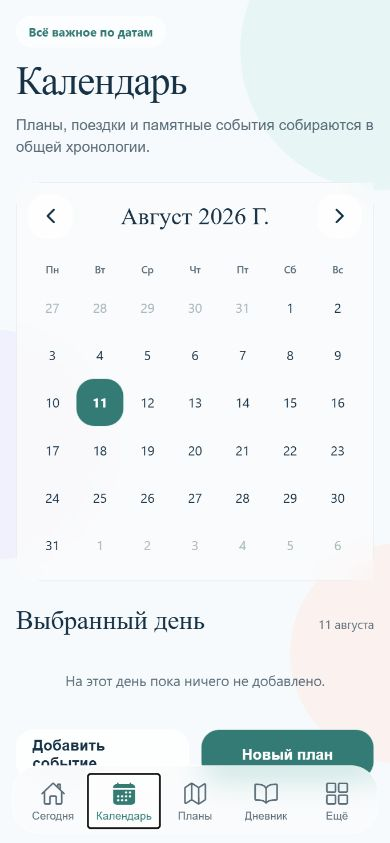
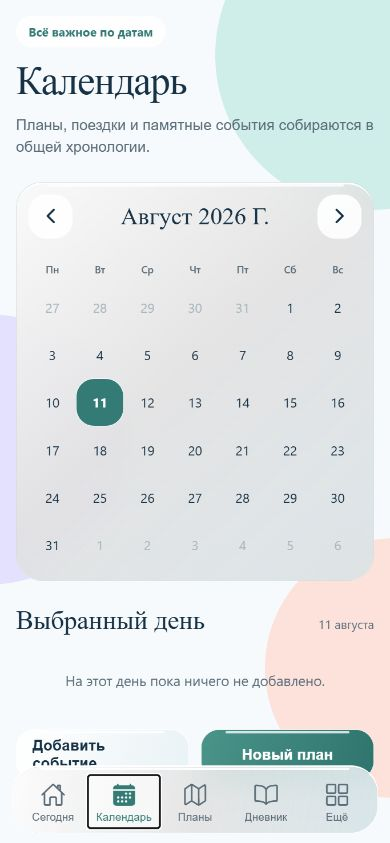
feat: amplify liquid glass depth and refraction

diff --git a/src/components/AppButton.tsx b/src/components/AppButton.tsx
@@ -1,4 +1,5 @@
-import { Pressable, StyleSheet, Text, type PressableProps, type StyleProp, type ViewStyle } from "react-native";
+import { LinearGradient } from "expo-linear-gradient";
+import { Pressable, StyleSheet, Text, View, type PressableProps, type StyleProp, type ViewStyle } from "react-native";
 import { colors, controlShadow, radius, spacing, typography } from "@/theme/tokens";
 
 interface AppButtonProps extends Omit<PressableProps, "style"> {
@@ -8,24 +9,33 @@ interface AppButtonProps extends Omit<PressableProps, "style"> {
 }
 
 export function AppButton({ label, variant = "primary", style, ...props }: AppButtonProps) {
+  const gradient = variant === "primary"
+    ? (["#4A948A", "#2F746D"] as const)
+    : variant === "danger"
+      ? (["rgba(255,241,238,0.94)", "rgba(248,220,215,0.88)"] as const)
+      : (["rgba(255,255,255,0.96)", "rgba(226,238,242,0.76)"] as const);
   return (
     <Pressable
       accessibilityRole="button"
       style={({ pressed }) => [styles.base, styles[variant], pressed && styles.pressed, style]}
       {...props}
     >
+      <LinearGradient colors={gradient} end={{ x: 1, y: 1 }} pointerEvents="none" start={{ x: 0, y: 0 }} style={[StyleSheet.absoluteFill, styles.gradient]} />
+      <View pointerEvents="none" style={styles.specular} />
       <Text style={[styles.label, variant !== "primary" && styles.darkLabel, variant === "danger" && styles.dangerLabel]}>{label}</Text>
     </Pressable>
   );
 }
 
 const styles = StyleSheet.create({
-  base: { alignItems: "center", borderRadius: radius.md, borderWidth: StyleSheet.hairlineWidth, justifyContent: "center", minHeight: 50, paddingHorizontal: spacing.lg, ...controlShadow },
-  primary: { backgroundColor: colors.sea, borderColor: "rgba(255,255,255,0.72)" },
+  base: { alignItems: "center", borderRadius: radius.md, borderWidth: 1, justifyContent: "center", minHeight: 50, paddingHorizontal: spacing.lg, ...controlShadow },
+  primary: { backgroundColor: colors.sea, borderColor: "rgba(255,255,255,0.9)" },
   secondary: { backgroundColor: "rgba(255,255,255,0.76)", borderColor: colors.glassLine },
   danger: { backgroundColor: colors.coralSoft },
   pressed: { opacity: 0.86, transform: [{ scale: 0.98 }] },
   label: { color: colors.white, fontFamily: typography.body, fontSize: 15, fontWeight: "600" },
+  gradient: { borderRadius: radius.md },
+  specular: { backgroundColor: "rgba(255,255,255,0.78)", borderRadius: 999, height: 2, left: 24, position: "absolute", right: 24, top: 1 },
   darkLabel: { color: colors.ink },
   dangerLabel: { color: colors.danger },
 });

diff --git a/src/app/(tabs)/_layout.tsx b/src/app/(tabs)/_layout.tsx
@@ -1,7 +1,8 @@
 import { Ionicons } from "@expo/vector-icons";
 import { BlurView } from "expo-blur";
+import { LinearGradient } from "expo-linear-gradient";
 import { Tabs } from "expo-router";
-import { Platform, StyleSheet } from "react-native";
+import { Platform, StyleSheet, View } from "react-native";
 import { colors, radius, shadow, typography } from "@/theme/tokens";
 
 const icons = {
@@ -20,19 +21,29 @@ export default function TabsLayout() {
         tabBarActiveTintColor: colors.sea,
         tabBarInactiveTintColor: colors.muted,
         tabBarActiveBackgroundColor: "rgba(255,255,255,0.58)",
-        tabBarBackground: () => <BlurView blurMethod="dimezisBlurViewSdk31Plus" intensity={72} tint="systemUltraThinMaterialLight" style={StyleSheet.absoluteFill} />,
+        tabBarBackground: () => (
+          <BlurView blurMethod="dimezisBlurViewSdk31Plus" intensity={88} tint="systemThinMaterialLight" style={styles.tabMaterial}>
+            <LinearGradient
+              colors={["rgba(255,255,255,0.92)", "rgba(255,255,255,0.36)", "rgba(218,238,243,0.64)"]}
+              end={{ x: 1, y: 1 }}
+              locations={[0, 0.52, 1]}
+              start={{ x: 0, y: 0 }}
+              style={StyleSheet.absoluteFill}
+            />
+            <View style={styles.tabSpecular} />
+          </BlurView>
+        ),
         tabBarItemStyle: { borderRadius: radius.md, marginVertical: 5, outlineColor: "transparent", outlineWidth: 0 },
         tabBarLabelStyle: { fontFamily: typography.body, fontSize: 11, fontWeight: "500", marginTop: 2 },
         tabBarStyle: {
-          backgroundColor: "rgba(255,255,255,0.5)",
+          backgroundColor: "rgba(255,255,255,0.42)",
           borderColor: colors.glassLine,
           borderRadius: 27,
-          borderTopWidth: StyleSheet.hairlineWidth,
-          borderWidth: StyleSheet.hairlineWidth,
+          borderTopWidth: 2,
+          borderWidth: 1,
           bottom: Platform.OS === "ios" ? 8 : 10,
           height: Platform.OS === "ios" ? 78 : 68,
           left: 12,
-          overflow: "hidden",
           paddingHorizontal: 5,
           paddingTop: 4,
           position: "absolute",
@@ -53,3 +64,8 @@ export default function TabsLayout() {
     </Tabs>
   );
 }
+
+const styles = StyleSheet.create({
+  tabMaterial: { borderRadius: 27, flex: 1, overflow: "hidden" },
+  tabSpecular: { backgroundColor: "rgba(255,255,255,0.9)", borderRadius: 999, height: 2, left: 28, position: "absolute", right: 28, top: 1 },
+});

diff --git a/src/components/Surface.tsx b/src/components/Surface.tsx
@@ -1,5 +1,6 @@
 import type { PropsWithChildren } from "react";
 import { BlurView } from "expo-blur";
+import { LinearGradient } from "expo-linear-gradient";
 import { StyleSheet, View, type StyleProp, type ViewStyle } from "react-native";
 import { colors, radius, shadow, spacing } from "@/theme/tokens";
 
@@ -10,8 +11,17 @@ interface SurfaceProps extends PropsWithChildren {
 export function Surface({ children, style }: SurfaceProps) {
   return (
     <View style={[styles.surface, style]}>
-      <BlurView blurMethod="dimezisBlurViewSdk31Plus" intensity={54} tint="systemUltraThinMaterialLight" style={StyleSheet.absoluteFill} />
+      <BlurView blurMethod="dimezisBlurViewSdk31Plus" intensity={82} tint="systemThinMaterialLight" style={[StyleSheet.absoluteFill, styles.materialLayer]} />
+      <LinearGradient
+        colors={["rgba(255,255,255,0.86)", "rgba(255,255,255,0.26)", "rgba(224,241,246,0.48)"]}
+        end={{ x: 1, y: 1 }}
+        locations={[0, 0.48, 1]}
+        pointerEvents="none"
+        start={{ x: 0, y: 0 }}
+        style={[StyleSheet.absoluteFill, styles.materialLayer]}
+      />
       <View pointerEvents="none" style={styles.highlight} />
+      <View pointerEvents="none" style={styles.specular} />
       {children}
     </View>
   );
@@ -22,18 +32,29 @@ const styles = StyleSheet.create({
     backgroundColor: colors.surface,
     borderColor: colors.line,
     borderRadius: radius.lg,
-    borderWidth: StyleSheet.hairlineWidth,
+    borderWidth: 1,
     padding: spacing.lg,
     ...shadow,
   },
+  materialLayer: { borderRadius: radius.lg },
   highlight: {
     borderColor: colors.glassLine,
     borderRadius: radius.lg,
-    borderTopWidth: 1,
+    borderTopWidth: 2,
     height: "100%",
     left: 0,
     position: "absolute",
     top: 0,
     width: "100%",
+  },
+  specular: {
+    backgroundColor: "rgba(255,255,255,0.82)",
+    borderRadius: 999,
+    height: 3,
+    left: 30,
+    opacity: 0.9,
+    position: "absolute",
+    right: 30,
+    top: 1,
   },
 });

diff --git a/src/components/MoodPanel.tsx b/src/components/MoodPanel.tsx
@@ -48,7 +48,7 @@ const styles = StyleSheet.create({
   title: { color: colors.ink, fontFamily: typography.display, fontSize: 26 },
   caption: { color: colors.muted, fontSize: 12, marginTop: 2 },
   people: { flexDirection: "row", gap: spacing.md },
-  person: { backgroundColor: colors.coralSoft, borderColor: "rgba(255,255,255,0.82)", borderRadius: radius.lg, borderWidth: StyleSheet.hairlineWidth, flex: 1, padding: spacing.md, ...controlShadow },
+  person: { backgroundColor: colors.coralSoft, borderColor: colors.glassLine, borderRadius: radius.lg, borderWidth: 1, flex: 1, padding: spacing.md, ...controlShadow },
   lisaPerson: { backgroundColor: colors.violetSoft },
   avatar: { alignItems: "center", backgroundColor: colors.coral, borderRadius: radius.pill, height: 34, justifyContent: "center", width: 34 },
   lisaAvatar: { backgroundColor: colors.violet },
@@ -57,8 +57,8 @@ const styles = StyleSheet.create({
   value: { color: colors.muted, fontSize: 12, marginTop: 2 },
   selectLabel: { color: colors.muted, fontSize: 12, marginBottom: spacing.sm, marginTop: spacing.lg },
   options: { flexDirection: "row", flexWrap: "wrap", gap: spacing.sm },
-  option: { backgroundColor: "rgba(255,255,255,0.72)", borderColor: colors.glassLine, borderRadius: radius.pill, borderWidth: StyleSheet.hairlineWidth, minHeight: 38, paddingHorizontal: spacing.md, paddingVertical: 10, ...controlShadow },
-  activeOption: { backgroundColor: colors.seaSoft, borderColor: "rgba(51,123,116,0.34)" },
+  option: { backgroundColor: "rgba(255,255,255,0.86)", borderColor: colors.glassLine, borderRadius: radius.pill, borderWidth: 1, minHeight: 38, paddingHorizontal: spacing.md, paddingVertical: 10, ...controlShadow },
+  activeOption: { backgroundColor: colors.seaSoft, borderColor: "rgba(51,123,116,0.48)" },
   optionText: { color: colors.muted, fontFamily: typography.body, fontSize: 12 },
   activeOptionText: { color: colors.sea, fontWeight: "700" },
 });

diff --git a/src/app/(tabs)/calendar.tsx b/src/app/(tabs)/calendar.tsx
@@ -67,13 +67,13 @@ export default function CalendarScreen() {
 const styles = StyleSheet.create({
   calendar: { backgroundColor: "rgba(255,255,255,0.66)", padding: spacing.md },
   monthRow: { alignItems: "center", flexDirection: "row", justifyContent: "space-between", marginBottom: spacing.lg },
-  arrow: { alignItems: "center", backgroundColor: "rgba(255,255,255,0.76)", borderColor: colors.glassLine, borderRadius: radius.md, borderWidth: StyleSheet.hairlineWidth, height: 44, justifyContent: "center", width: 44, ...controlShadow },
+  arrow: { alignItems: "center", backgroundColor: "rgba(255,255,255,0.9)", borderColor: colors.glassLine, borderRadius: radius.md, borderWidth: 1, height: 44, justifyContent: "center", width: 44, ...controlShadow },
   month: { color: colors.ink, fontFamily: typography.display, fontSize: 24, textTransform: "capitalize" },
   weekRow: { flexDirection: "row" },
   weekday: { color: colors.muted, flex: 1, fontSize: 10, fontWeight: "600", paddingVertical: spacing.sm, textAlign: "center" },
   grid: { flexDirection: "row", flexWrap: "wrap" },
   day: { alignItems: "center", aspectRatio: 1, justifyContent: "center", padding: 2, width: "14.2857%" },
-  activeDay: { backgroundColor: colors.sea, borderColor: "rgba(255,255,255,0.8)", borderRadius: radius.md, borderWidth: StyleSheet.hairlineWidth, ...controlShadow },
+  activeDay: { backgroundColor: colors.sea, borderColor: colors.glassLine, borderRadius: radius.md, borderWidth: 1, ...controlShadow },
   dayText: { color: colors.ink, fontSize: 13 },
   outsideText: { color: "#AAB8BC" },
   activeDayText: { color: colors.white, fontWeight: "700" },

diff --git a/src/theme/tokens.ts b/src/theme/tokens.ts
@@ -2,13 +2,13 @@ import { Platform } from "react-native";
 
 export const colors = {
   background: "#F7FAFC",
-  surface: "rgba(255, 255, 255, 0.62)",
+  surface: "rgba(255, 255, 255, 0.5)",
   surfaceStrong: "#FFFFFF",
   surfaceSoft: "rgba(244, 249, 250, 0.72)",
   ink: "#173246",
   muted: "#5B6D79",
-  line: "rgba(92, 116, 128, 0.14)",
-  glassLine: "rgba(255, 255, 255, 0.92)",
+  line: "rgba(76, 104, 118, 0.2)",
+  glassLine: "rgba(255, 255, 255, 0.98)",
   sea: "#337B74",
   seaSoft: "rgba(215, 240, 235, 0.68)",
   coral: "#D16457",
@@ -44,22 +44,22 @@ export const typography = {
 
 export const shadow = Platform.select({
   ios: {
-    shadowColor: "#6B8290",
-    shadowOpacity: 0.13,
-    shadowRadius: 22,
-    shadowOffset: { width: 0, height: 10 },
+    shadowColor: "#526F7E",
+    shadowOpacity: 0.2,
+    shadowRadius: 26,
+    shadowOffset: { width: 0, height: 13 },
   },
-  android: { elevation: 2 },
+  android: { elevation: 6 },
   default: {},
 });
 
 export const controlShadow = Platform.select({
   ios: {
-    shadowColor: "#66808B",
-    shadowOpacity: 0.12,
-    shadowRadius: 10,
-    shadowOffset: { width: 0, height: 5 },
+    shadowColor: "#587281",
+    shadowOpacity: 0.19,
+    shadowRadius: 13,
+    shadowOffset: { width: 0, height: 7 },
   },
-  android: { elevation: 2 },
+  android: { elevation: 4 },
   default: {},
 });

diff --git a/src/components/PageHeader.tsx b/src/components/PageHeader.tsx
@@ -1,5 +1,5 @@
 import { StyleSheet, Text, View } from "react-native";
-import { colors, spacing, typography } from "@/theme/tokens";
+import { colors, controlShadow, spacing, typography } from "@/theme/tokens";
 
 interface PageHeaderProps {
   title: string;
@@ -19,7 +19,7 @@ export function PageHeader({ title, subtitle, kicker }: PageHeaderProps) {
 
 const styles = StyleSheet.create({
   container: { marginBottom: spacing.xl, paddingTop: spacing.xs },
-  kicker: { alignSelf: "flex-start", backgroundColor: "rgba(255,255,255,0.64)", borderColor: colors.glassLine, borderRadius: 999, borderWidth: StyleSheet.hairlineWidth, color: colors.sea, fontSize: 12, fontWeight: "700", marginBottom: spacing.md, overflow: "hidden", paddingHorizontal: spacing.md, paddingVertical: 7 },
+  kicker: { alignSelf: "flex-start", backgroundColor: "rgba(255,255,255,0.82)", borderColor: colors.glassLine, borderRadius: 999, borderWidth: 1, color: colors.sea, fontSize: 12, fontWeight: "700", marginBottom: spacing.md, overflow: "hidden", paddingHorizontal: spacing.md, paddingVertical: 7, ...controlShadow },
   title: { color: colors.ink, fontFamily: typography.display, fontSize: 40, lineHeight: 43, letterSpacing: -1 },
   subtitle: { color: colors.muted, fontFamily: typography.body, fontSize: 15, lineHeight: 22, marginTop: spacing.md, maxWidth: 560 },
 });

diff --git a/src/components/Screen.tsx b/src/components/Screen.tsx
@@ -25,10 +25,10 @@ export function Screen({ children, header, scroll = true }: ScreenProps) {
 const styles = StyleSheet.create({
   safeArea: { flex: 1, backgroundColor: colors.background },
   ambient: { bottom: 0, left: 0, overflow: "hidden", position: "absolute", right: 0, top: 0 },
-  orb: { borderRadius: 999, opacity: 0.52, position: "absolute" },
-  orbSea: { backgroundColor: "#D9F2EE", height: 280, right: -130, top: -90, width: 280 },
-  orbViolet: { backgroundColor: "#ECE8FF", height: 230, left: -120, top: 330, width: 230 },
-  orbCoral: { backgroundColor: "#FFE8E3", bottom: 80, height: 220, right: -120, width: 220 },
+  orb: { borderRadius: 999, opacity: 0.72, position: "absolute" },
+  orbSea: { backgroundColor: "#BFEAE3", height: 310, right: -135, top: -100, width: 310 },
+  orbViolet: { backgroundColor: "#DDD7FF", height: 270, left: -145, top: 315, width: 270 },
+  orbCoral: { backgroundColor: "#FFD9D1", bottom: 45, height: 260, right: -135, width: 260 },
   scrollContent: { flexGrow: 1 },
   content: { flex: 1, paddingHorizontal: spacing.lg, paddingTop: spacing.md, paddingBottom: 120 },
 });

diff --git a/docs/DESIGN.md b/docs/DESIGN.md
@@ -2,22 +2,23 @@
 
 ## Direction
 
-«Между нами» использует светлую интерпретацию Apple liquid glass с очень сдержанным неоморфным
-объёмом. Интерфейс должен ощущаться спокойным, личным и нативным, а не декоративной витриной.
+«Между нами» использует светлую интерпретацию Apple liquid glass с выраженным, но контролируемым
+неоморфным объёмом. Интерфейс должен ощущаться спокойным, личным и нативным, а материал — заметно
+реагировать на цвет под ним.
 
 ## Principles
 
 - Почти белый холодный фон вместо серо-зелёной заливки.
 - Полупрозрачные системные blur-материалы только для навигации и смысловых поверхностей.
 - Цветовые пятна находятся за контентом и помогают увидеть прозрачность стекла.
-- Мягкая внешняя тень и светлая верхняя грань создают объём без тяжёлых неоморфных кнопок.
+- Глубокая мягкая тень, белая кромка и градиент преломления отделяют стеклянные слои от фона.
 - Морской зелёный используется для действий и выбранных состояний; коралловый и фиолетовый — для людей и категорий.
 - Заголовки сохраняют Iowan Old Style на iOS, весь служебный текст и элементы управления используют системный шрифт.
 - Минимальная высота основных элементов управления — 44 pt на iOS и 48 dp на Android.
 
 ## Components
 
-- `Surface` — единая стеклянная поверхность на основе `expo-blur`.
+- `Surface` — единая стеклянная поверхность на основе `expo-blur` и `expo-linear-gradient`.
 - `AppButton` — зелёная основная кнопка, белая стеклянная вторичная кнопка, мягкое состояние нажатия.
 - `Screen` — safe area, фон и три размытых цветовых источника.
 - Нижняя навигация — плавающий blur-материал с пятью стандартными направлениями.
@@ -26,4 +27,5 @@
 
 - Приложение зафиксировано в светлой теме до появления полноценной парной тёмной схемы.
 - Blur на Android включается нативно с Android 12; на старых устройствах остаётся полупрозрачный fallback.
-- Нельзя повышать непрозрачность теней ради «вау-эффекта»: контент и читаемость важнее декора.
+- Выраженность материала достигается сочетанием blur, преломляющего градиента и кромки; непрозрачная
+  серая заливка не должна заменять стекло.
